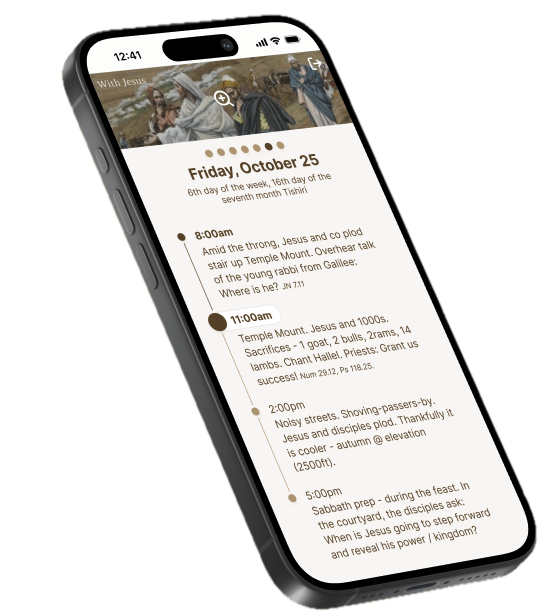
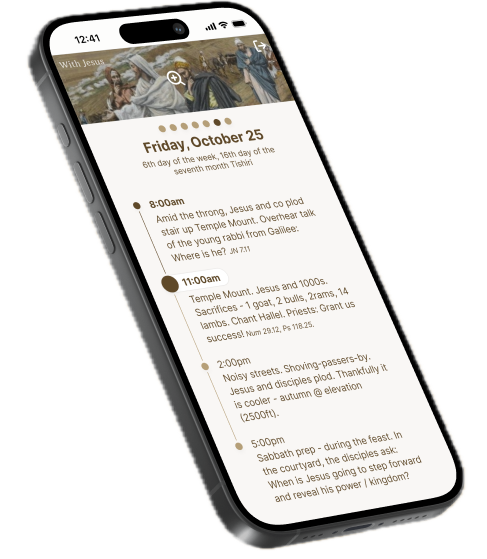
Update

Changed region(s): [[0.0308, 0.0, 0.9856, 1.0]]

diff --git a/src/components/ProjectDetails.jsx b/src/components/ProjectDetails.jsx
@@ -233,7 +233,7 @@ const ProjectDetails = () => {
         </div>
       )}
 
-      {/* Product Strategy Section */}
+      {/* Product Strategy Section
       {project.strategy && (
         <div className="product-strategy-section">
           <div className="product-strategy-container">
@@ -241,7 +241,7 @@ const ProjectDetails = () => {
             <p className="product-strategy-description">{project.strategy}</p>
           </div>
         </div>
-      )}
+      )} */}
 
       {/* {project.image2 && (
         <div className='project-overview-section'>
@@ -263,7 +263,7 @@ const ProjectDetails = () => {
         </div>
       )}
 
-      {project.image2 && (
+       {/* {project.image2 && (
         <div className="project-overview-section">
           <img
             src={project.image2}
@@ -271,7 +271,7 @@ const ProjectDetails = () => {
             className="project-other-images"
           />
         </div>
-      )}
+      )} */}
 
       {/* Testimonial Section */}
       {project.testimonial && (

diff --git a/src/components/Projects.jsx b/src/components/Projects.jsx
@@ -5,13 +5,14 @@ import image1 from '../assets/red-cross.avif';
 import image2 from '../assets/cross-2.avif';
 import image3 from '../assets/mobile-cross.jpg';
 import image4 from '../assets/cross-4.avif';
+import wj from '../assets/mockup-1.png';
 
 const projectData = [
   {
     id: 1,
     title: 'With Jesus',
     description: 'A native mobile app that showcases a walk-along journey through Jesus’s life before crucifixion.',
-    image: image1,
+    image: wj,
     url: '/projects/1',
   },
   {

diff --git a/src/components/ProjectDetails.css b/src/components/ProjectDetails.css
@@ -43,8 +43,8 @@
 
 .project-overview-image {
   width: 100%; 
-  max-width: 800px; 
-  max-height: 800px; 
+  max-width: 600px; 
+  max-height: 700px; 
   height: auto; 
   margin-bottom: 1rem;
 }
